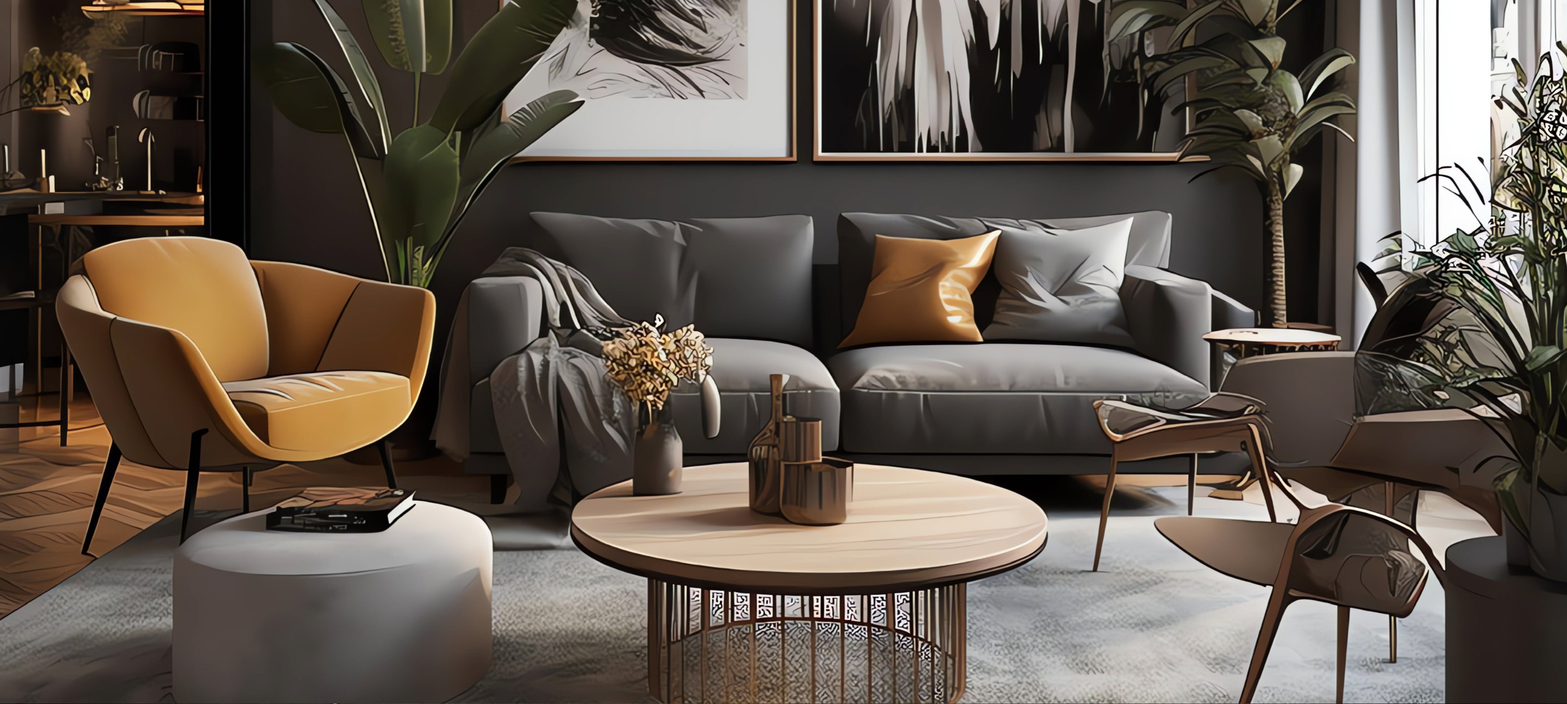
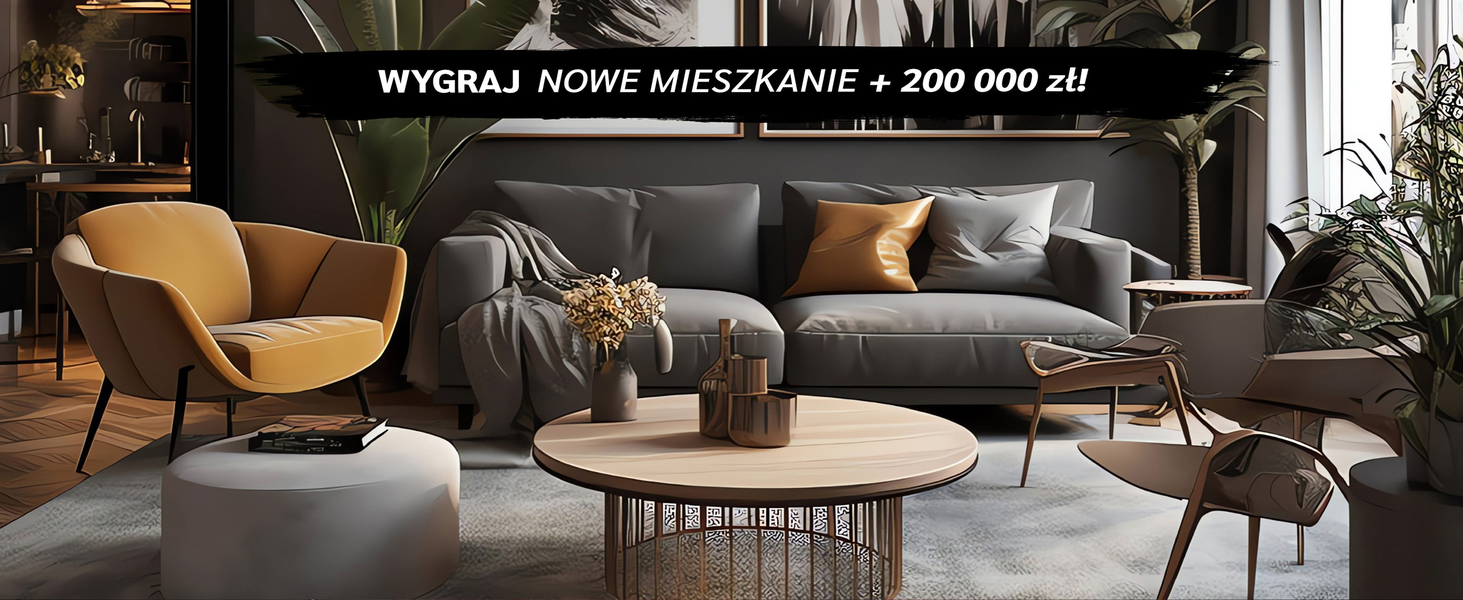
styling sections for desktop

Changed region(s): [[0.1554, 0.061, 0.87, 0.2134]]

diff --git a/src/components/HouseContainer.module.css b/src/components/HouseContainer.module.css
@@ -1,52 +1,78 @@
 .house_container {
-    width: 100vw;
-    height: fit-content;
-    display: flex;
-    flex-direction: column;
-    justify-content: center;
-    align-items: center;
-    background-color: #191919;
+  width: 100vw;
+  height: fit-content;
+  display: flex;
+  flex-direction: column;
+  justify-content: center;
+  align-items: center;
+  background-color: #191919;
 }
 .house_image {
-    width: 100vw;
+  width: 100vw;
 }
 .house_description {
-    width: 100vw;
-    background-color: #191919;
-    background-image: url('./motot_bg_mobile.jpg');
-    background-repeat: no-repeat;
-    background-position: center center;
-    background-size: cover;
-    padding: 30px;
-    font-family: 'Paytone One', sans-serif;
+  width: 100vw;
+  background-color: #191919;
+  background-image: url('./motot_bg_mobile.jpg');
+  background-repeat: no-repeat;
+  background-position: center center;
+  background-size: cover;
+  padding: 30px;
+  font-family: 'Paytone One', sans-serif;
 }
 .description_header {
-    font-size: 1.4rem;
-    font-family: var(--main-font);
-    font-style: italic;
-    font-weight: 800;
-    text-align: center;
-    margin-top: 20px;
-    margin-bottom: 30px;
-    padding: 0 30px;
-    letter-spacing: -1px;
-    line-height: 1.1rem;
-    word-break: break-word;
+  font-size: 1.4rem;
+  font-family: var(--main-font);
+  font-style: italic;
+  font-weight: 800;
+  text-align: center;
+  margin-top: 20px;
+  margin-bottom: 30px;
+  padding: 0 30px;
+  letter-spacing: -1px;
+  line-height: 1.1rem;
+  word-break: break-word;
 }
 .redline {
-    display: block;
-    margin: 0 auto;
-    width: 50px;
-    height: 5px;
-    margin-bottom: 30px;
-    background-color: var(--main-red);
+  display: block;
+  margin: 0 auto;
+  width: 50px;
+  height: 5px;
+  margin-bottom: 30px;
+  background-color: var(--main-red);
 }
 .description_text {
-    text-align: center;
-    font-style: italic;
-    margin-bottom: 20px;
+  text-align: center;
+  font-style: italic;
+  margin-bottom: 20px;
 }
 .motor_description :nth-child(4) {
-    padding: 0px 20px 0 20px;
-    margin-bottom: 0;
+  padding: 0px 20px 0 20px;
+  margin-bottom: 0;
+}
+.description_span {
+    display: none;
+}
+@media (min-width: 800px) {
+    .house_description {
+        max-height: 500px;
+    }
+  .description_header {
+    font-size: 2.7rem;
+    margin-top: 60px;
+    padding-bottom: 15px;
+  }
+  .description_text {
+    max-width: 650px;
+    margin: auto;
+    margin-bottom: 60px;
+    font-size: 1.2rem;
+  }
+  .description_span {
+    display: inline;
+}
+  .house_description :nth-child(4) {
+    display: none;
+  }
+  
 }

diff --git a/src/components/CharitySection.module.css b/src/components/CharitySection.module.css
@@ -1,53 +1,73 @@
 .charity_container {
-    width: 100vw;
-    height: fit-content;
-    display: flex;
-    flex-direction: column;
-    justify-content: center;
-    align-items: center;
-    background-color: #191919;
-    position: relative;
+  width: 100vw;
+  height: fit-content;
+  display: flex;
+  flex-direction: column;
+  justify-content: center;
+  align-items: center;
+  background-color: #191919;
+  position: relative;
 }
 .charity_image {
-    width: 100vw;
+  width: 100vw;
 }
 .charity_description {
-    width: 100vw;
-    background-color: #191919;
-    background-image: url('./charity_bg_mobile.jpg');
-    background-repeat: no-repeat;
-    background-position: center center;
-    background-size: cover;
-    padding: 30px;
-    font-family: 'Paytone One', sans-serif;
+  width: 100vw;
+  background-color: #191919;
+  background-image: url('./charity_bg_mobile.jpg');
+  background-repeat: no-repeat;
+  background-position: center center;
+  background-size: cover;
+  padding: 30px;
+  font-family: 'Paytone One', sans-serif;
 }
 .description_header {
-    font-size: 1.4rem;
-    font-family: var(--main-font);
-    font-style: italic;
-    font-weight: 800;
-    text-align: center;
-    margin-top: 20px;
-    margin-bottom: 30px;
-    padding: 0 30px;
-    letter-spacing: -1px;
-    line-height: 1.2rem;
-    word-break: break-word;
+  font-size: 1.4rem;
+  font-family: var(--main-font);
+  font-style: italic;
+  font-weight: 800;
+  text-align: center;
+  margin-top: 20px;
+  margin-bottom: 30px;
+  padding: 0 30px;
+  letter-spacing: -1px;
+  line-height: 1.2rem;
+  word-break: break-word;
 }
 .redline {
-    display: block;
-    margin: 0 auto;
-    width: 50px;
-    height: 5px;
-    margin-bottom: 30px;
-    background-color: var(--main-red);
+  display: block;
+  margin: 0 auto;
+  width: 50px;
+  height: 5px;
+  margin-bottom: 30px;
+  background-color: var(--main-red);
 }
 .description_text {
-    text-align: center;
-    font-style: italic;
-    margin-bottom: 20px;
+  text-align: center;
+  font-style: italic;
+  margin-bottom: 20px;
 }
 .charity_description :nth-child(6) {
-    padding: 0px 20px 0 20px;
-    margin-bottom: 0;
+  padding: 0px 20px 0 20px;
+  margin-bottom: 0;
+}
+@media (min-width: 800px) {
+  .charity_description {
+    max-height: 900px;
+  }
+  .description_header {
+    font-size: 2.7rem;
+    margin-top: 30px;
+    padding-bottom: 15px;
+    line-height: 2.9rem;
+  }
+  .description_text {
+    font-size: 1.2rem;
+    max-width: 700px;
+    margin: auto;
+    margin-bottom: 30px;
+  }
+  .charity_description :nth-child(6) {
+    margin-bottom: 30px;
+  }
 }

diff --git a/src/components/HouseContainer.tsx b/src/components/HouseContainer.tsx
@@ -4,11 +4,11 @@ const HouseContainer = () => {
   return (
     <div className={styles.house_container}>
       <picture>
-        <source srcSet="./motor_section.jpg" media="(min-width: 800px)" />
+        <source srcSet="./bg_house_2.jpg" media="(min-width: 800px)" />
         <img
           className={styles.house_image}
           src="./bg_house_mobile.jpg"
-          alt="cars"
+          alt="interior"
         />
       </picture>
       <div className={styles.house_description}>
@@ -18,7 +18,12 @@ const HouseContainer = () => {
         <span className={styles.redline} />
         <p className={styles.description_text}>
           Weź udział i wygraj mieszkanie o wartości 800 tys. złotych oraz 200
-          tys. złotych na jego wyposażenie!
+          tys. złotych na jego wyposażenie!{' '}
+          <span className={styles.description_span}>
+            {' '}
+            Sam zdecydujesz gdzie będziesz mieszkał i jak będziesz mieszkał!
+            Koszty podatku od nagrody ponosi organizator loterii!
+          </span>
         </p>
         <p className={styles.description_text}>
           Sam zdecydujesz gdzie będziesz mieszkał i jak będziesz mieszkał!

diff --git a/src/components/MotorSection.module.css b/src/components/MotorSection.module.css
@@ -1,6 +1,5 @@
 .motor_container {
-    
-    height: fit-content;
+    height: auto;
     display: flex;
     flex-direction: column;
     justify-content: center;
@@ -49,4 +48,25 @@
 .motor_description :nth-child(4) {
     padding: 0px 20px 0 20px;
     margin-bottom: 0;
+}
+@media (min-width: 800px) {
+    .motor_description {
+        max-height: 600px;
+    }
+    .description_header {
+        margin-top: 60px;
+        padding-bottom: 15px;
+        font-size: 2.7rem;
+    }
+    .description_text {
+        margin-bottom: 0;
+        max-width: 680px;
+        margin: auto;
+        font-size: 1.2rem;
+        line-height: 1.7rem;
+    }
+    .motor_description :nth-child(4) {
+        margin-bottom: 60px;
+        
+    }
 }

diff --git a/src/utils/swiper.css b/src/utils/swiper.css
@@ -17,7 +17,7 @@
 .swiper-slide img {
   display: block;
   width: 100vw;
-  object-fit: cover;
+  object-fit: contain;
 }
 .swiper-button-next,
 .swiper-button-prev {
@@ -27,9 +27,17 @@
 .swiper-button-prev.swiper-button-disabled {
   /* opacity: 1; */
 }
-.swiper-pagination-bullet {
-  
-}
 .swiper-pagination-bullet-active {
   background: var(--white);
+}
+
+@media (min-width: 800px) {
+  .swiper-pagination-bullet {
+    width: 40px;
+    height: 40px;
+  }
+  .swiper-wrapper {
+    height: fit-content;
+  } 
+ 
 }

diff --git a/src/components/SliderSection.module.css b/src/components/SliderSection.module.css
@@ -8,6 +8,9 @@
   justify-content: center;
   padding-bottom: 3px;
 }
-.prizes_image {
-  width: 100vw;
+
+@media (min-width: 800px) {
+  .slider_container {
+    /* max-height: 400px; */
+  }
 }

diff --git a/src/index.css b/src/index.css
@@ -14,7 +14,7 @@
 html {
   font-size: 62,5%;
   scroll-behavior: smooth;
-  min-height: 200vh;
+  min-height: 100vh;
   font-size: 13px
 }
 body {
